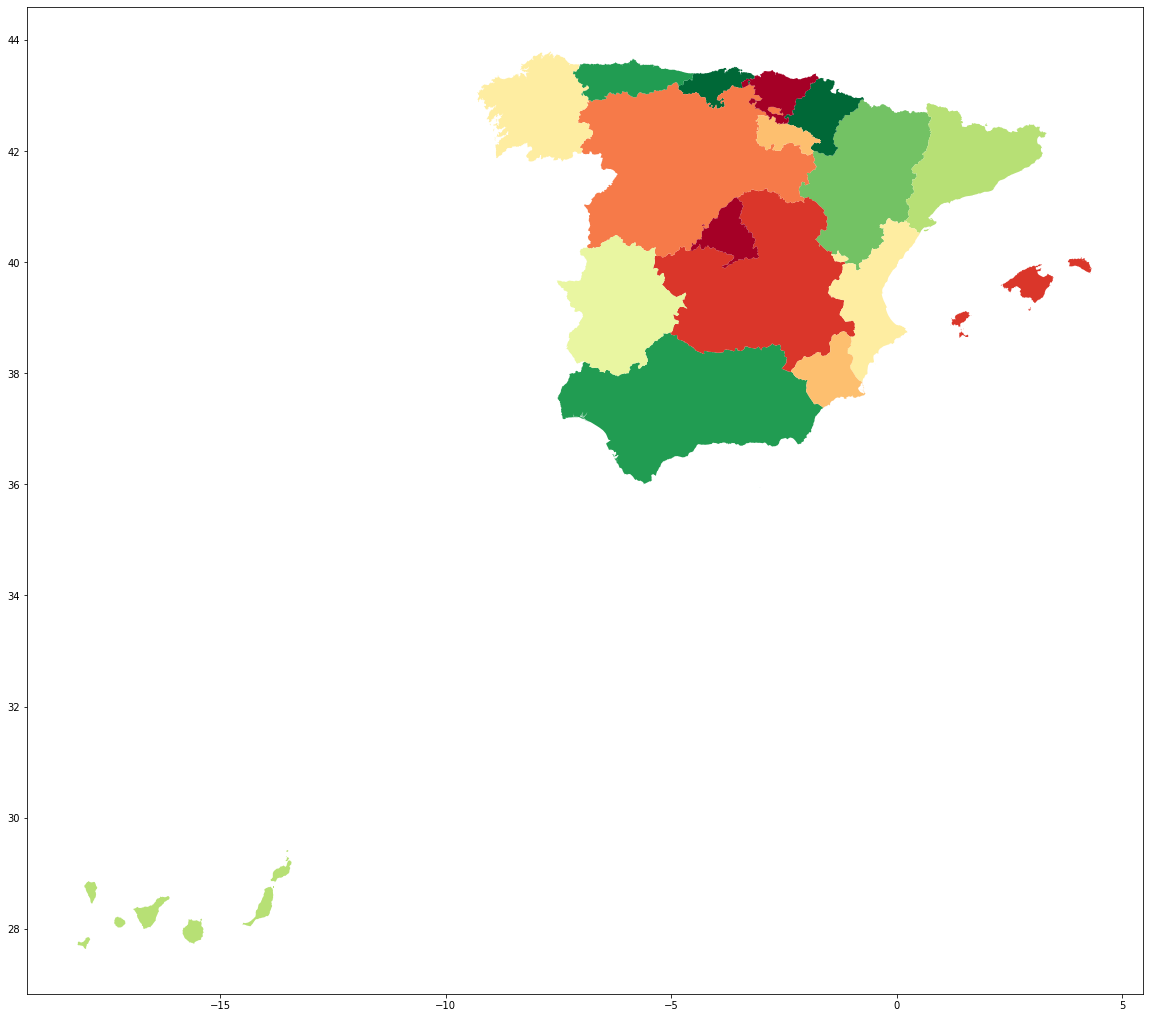
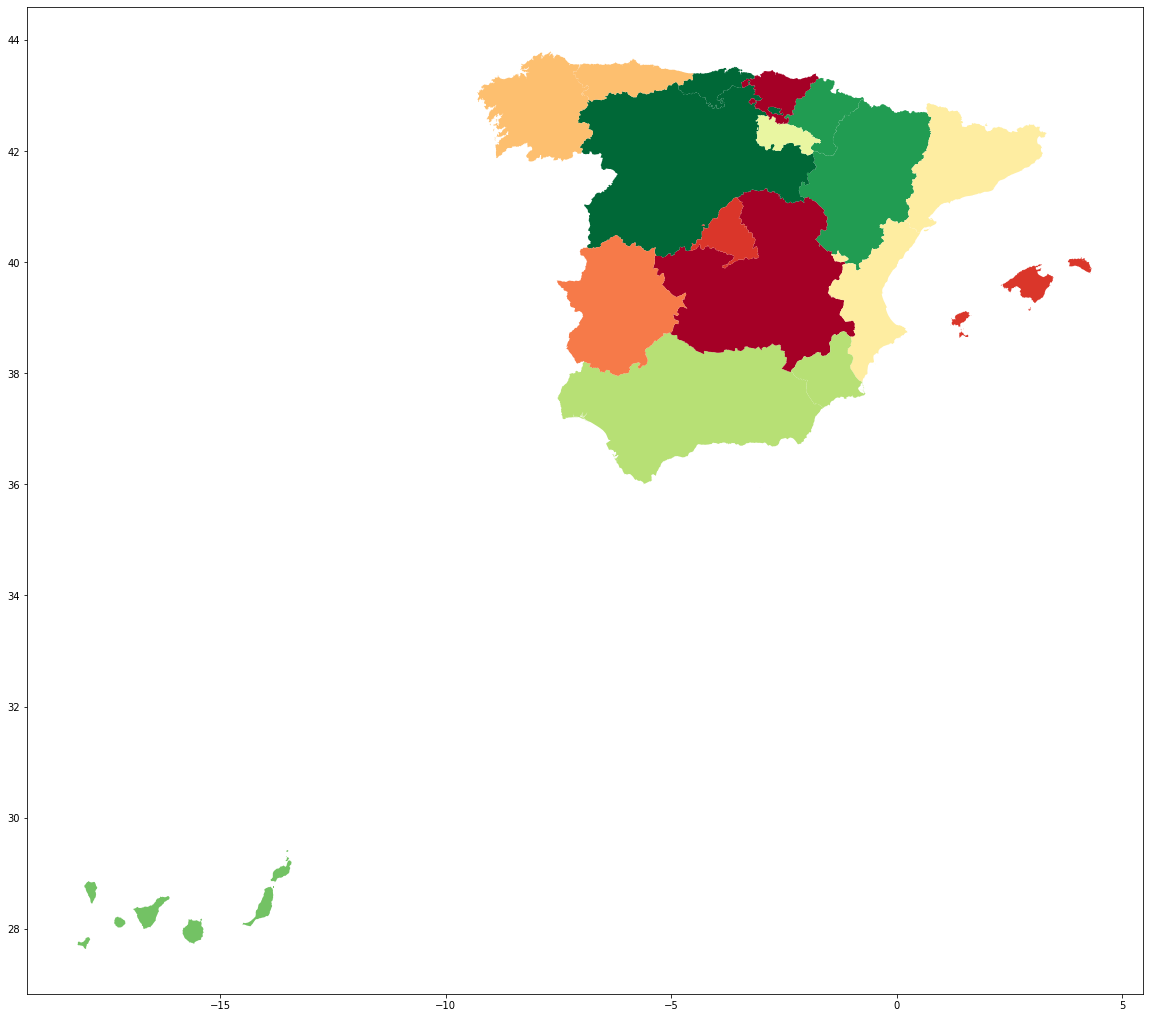
README y actualización plot

diff --git a/README.md b/README.md
@@ -1,7 +1,29 @@
 # SDPrac2
 
-Practica 2 de Sistemas Distribuidos: Sentiment Analysis PAU/EVAU Comunidades
+Practica 2 de Sistemas Distribuidos: Sentiment Analysis PAU/EvAU Comunidades
 
 Ismael y Gabriel
 
+```Las librerías necesarias se pueden instalar mediante: pip install -r requirements.txt```
+
+## Ejecución
+
+Para hacer funcionar este proyecto es necesario definir un fichero ".lithops_config" con las API key del servicio Object Storage y Serverless Functions correspondiente.
+Más información acerca de lithops [aqui](https://github.com/lithops-cloud/lithops).
+
+La API Key de Twitter se define en las constantes al inicio de [Twitter_Analyzer.py](https://github.com/IsmaelHG/SDPrac2/blob/main/Twitter_Analyzer.py#L14)
+
+Se ha utilizado un custom runtime de lithops ```ismaelhg2000/sdprac2runtime:1.0``` basado en el [Dockerfile](Dockerfile).
+
+Él [Notebook](Notebook_Stage3.ipynb) incluye el codigo necesario para ejecutar las tres etapas del proyecto.
+
+## Plot
+
+Resultado actual (18/06/2021)
+
 ![alt_text](MAPA.png)
+
+![alt_text](tabla_sentiment.png)
+
+
+Sistemes distribuits URV (2020-2021)
